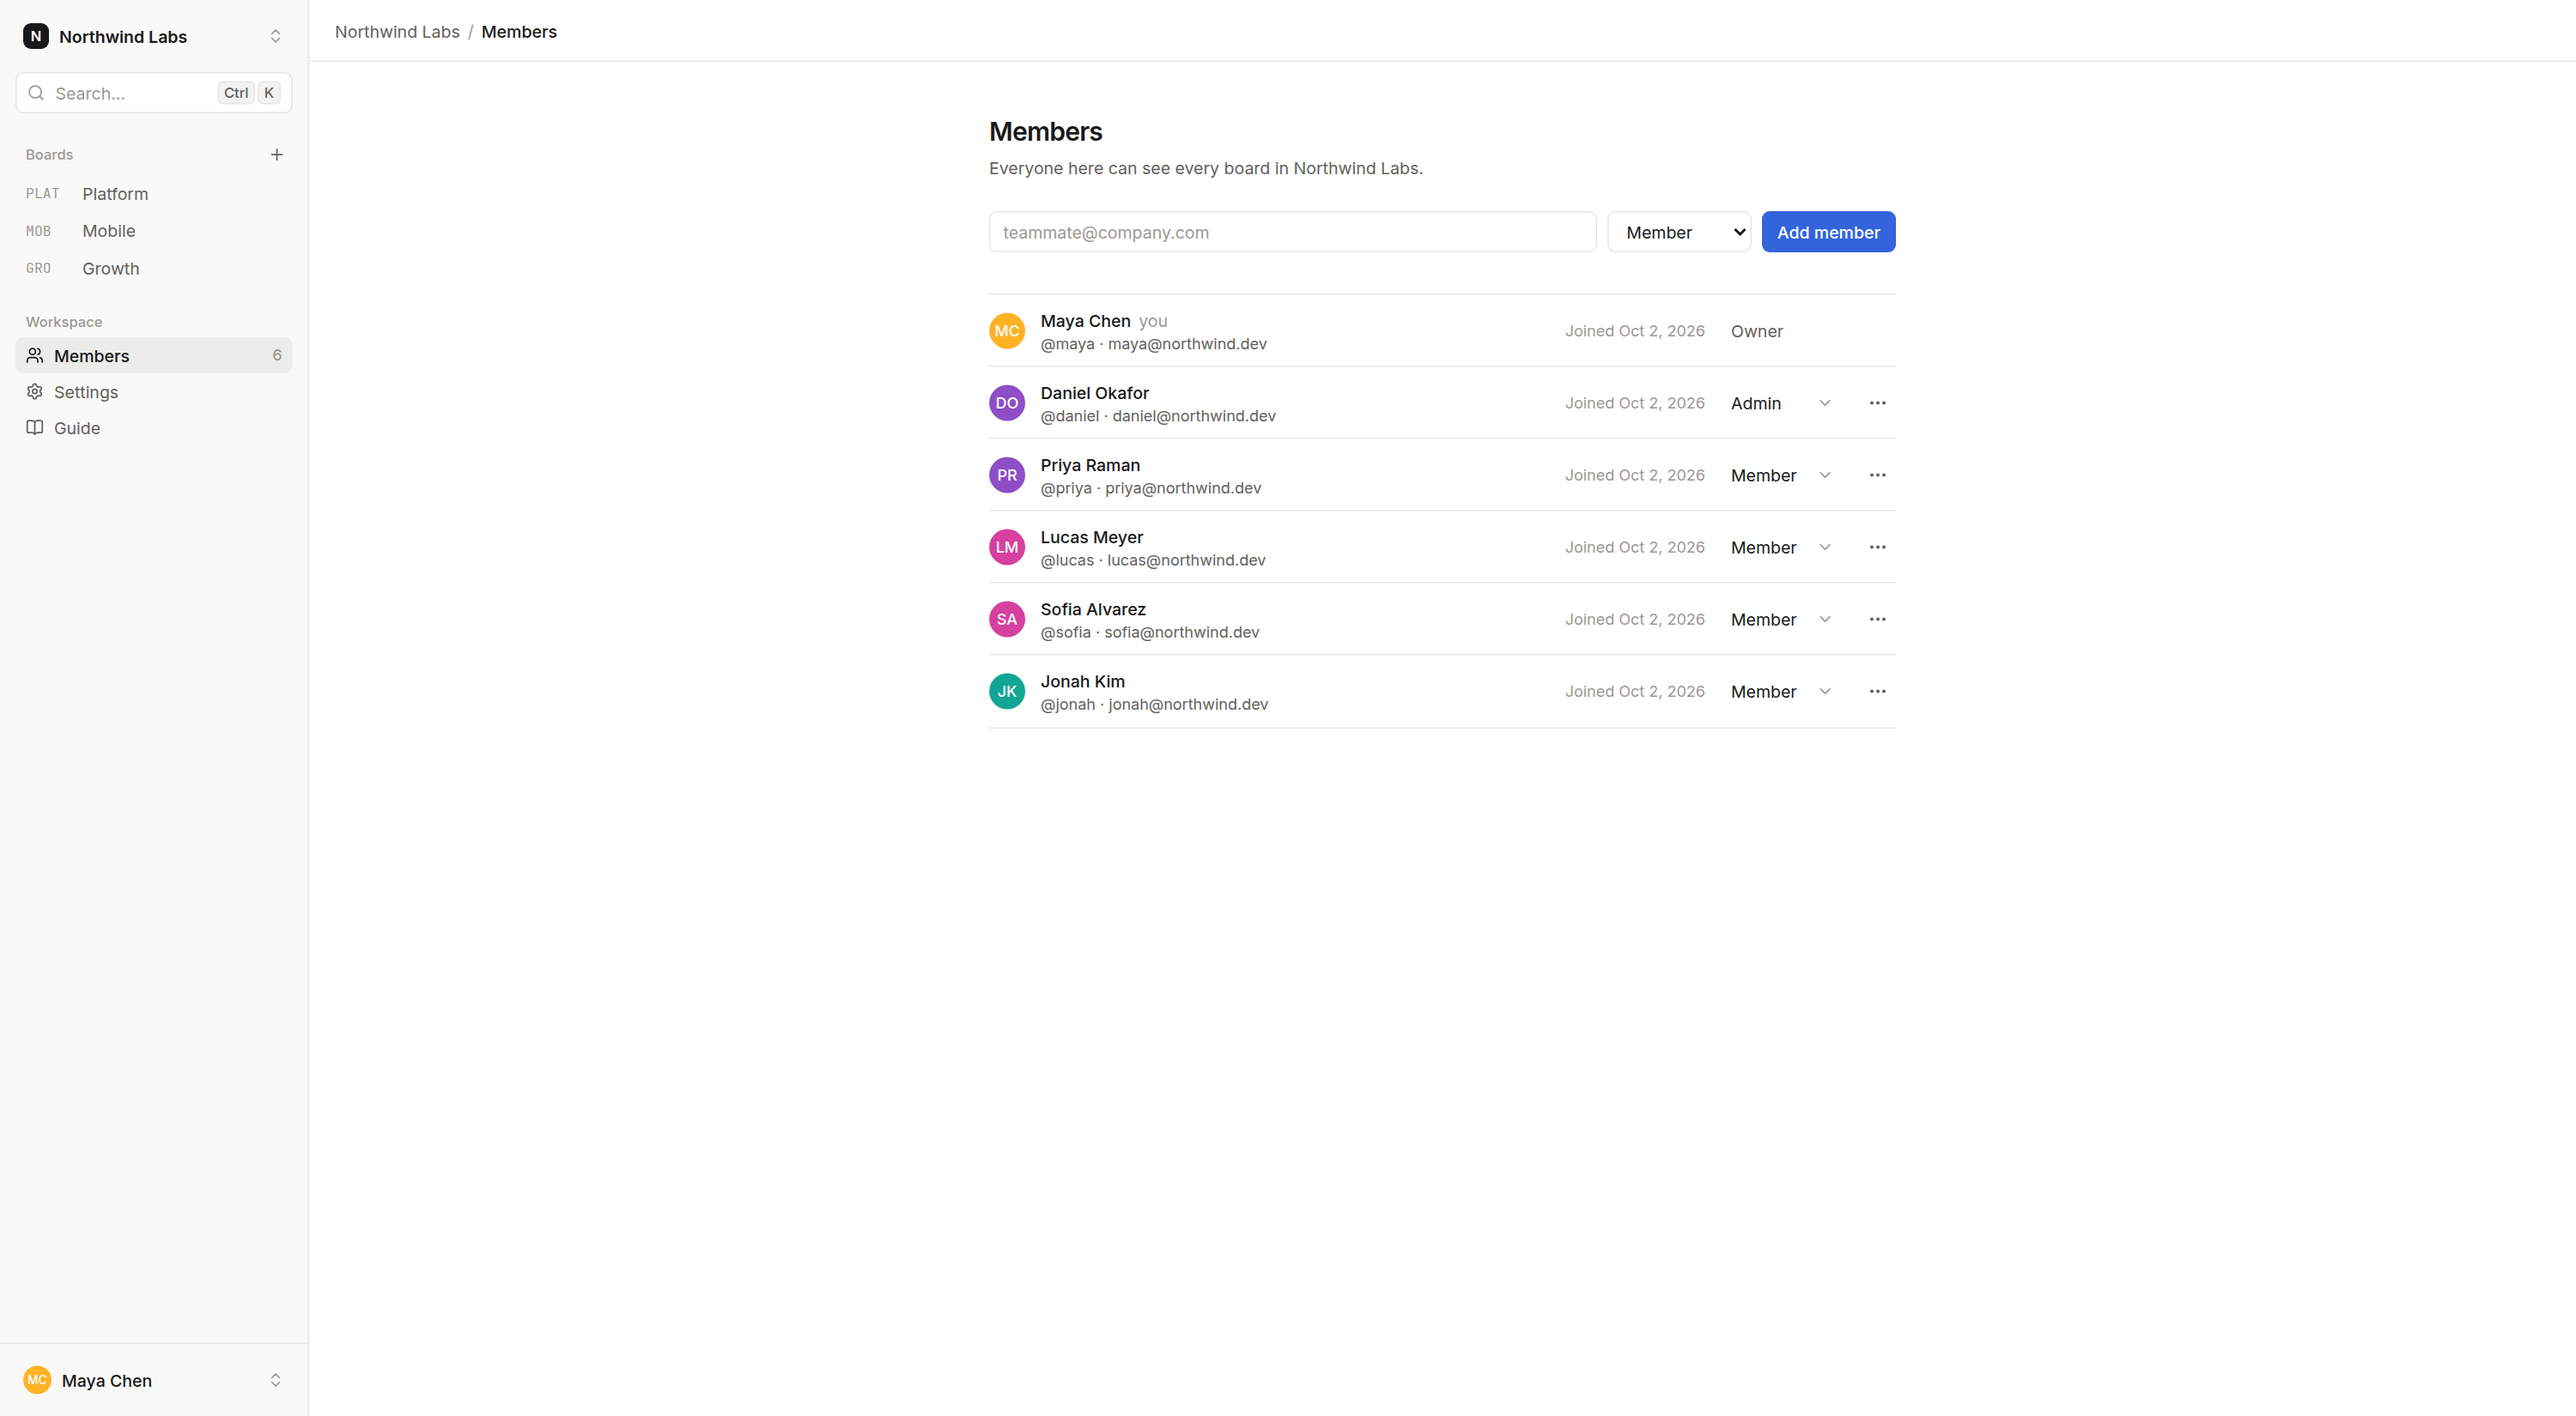
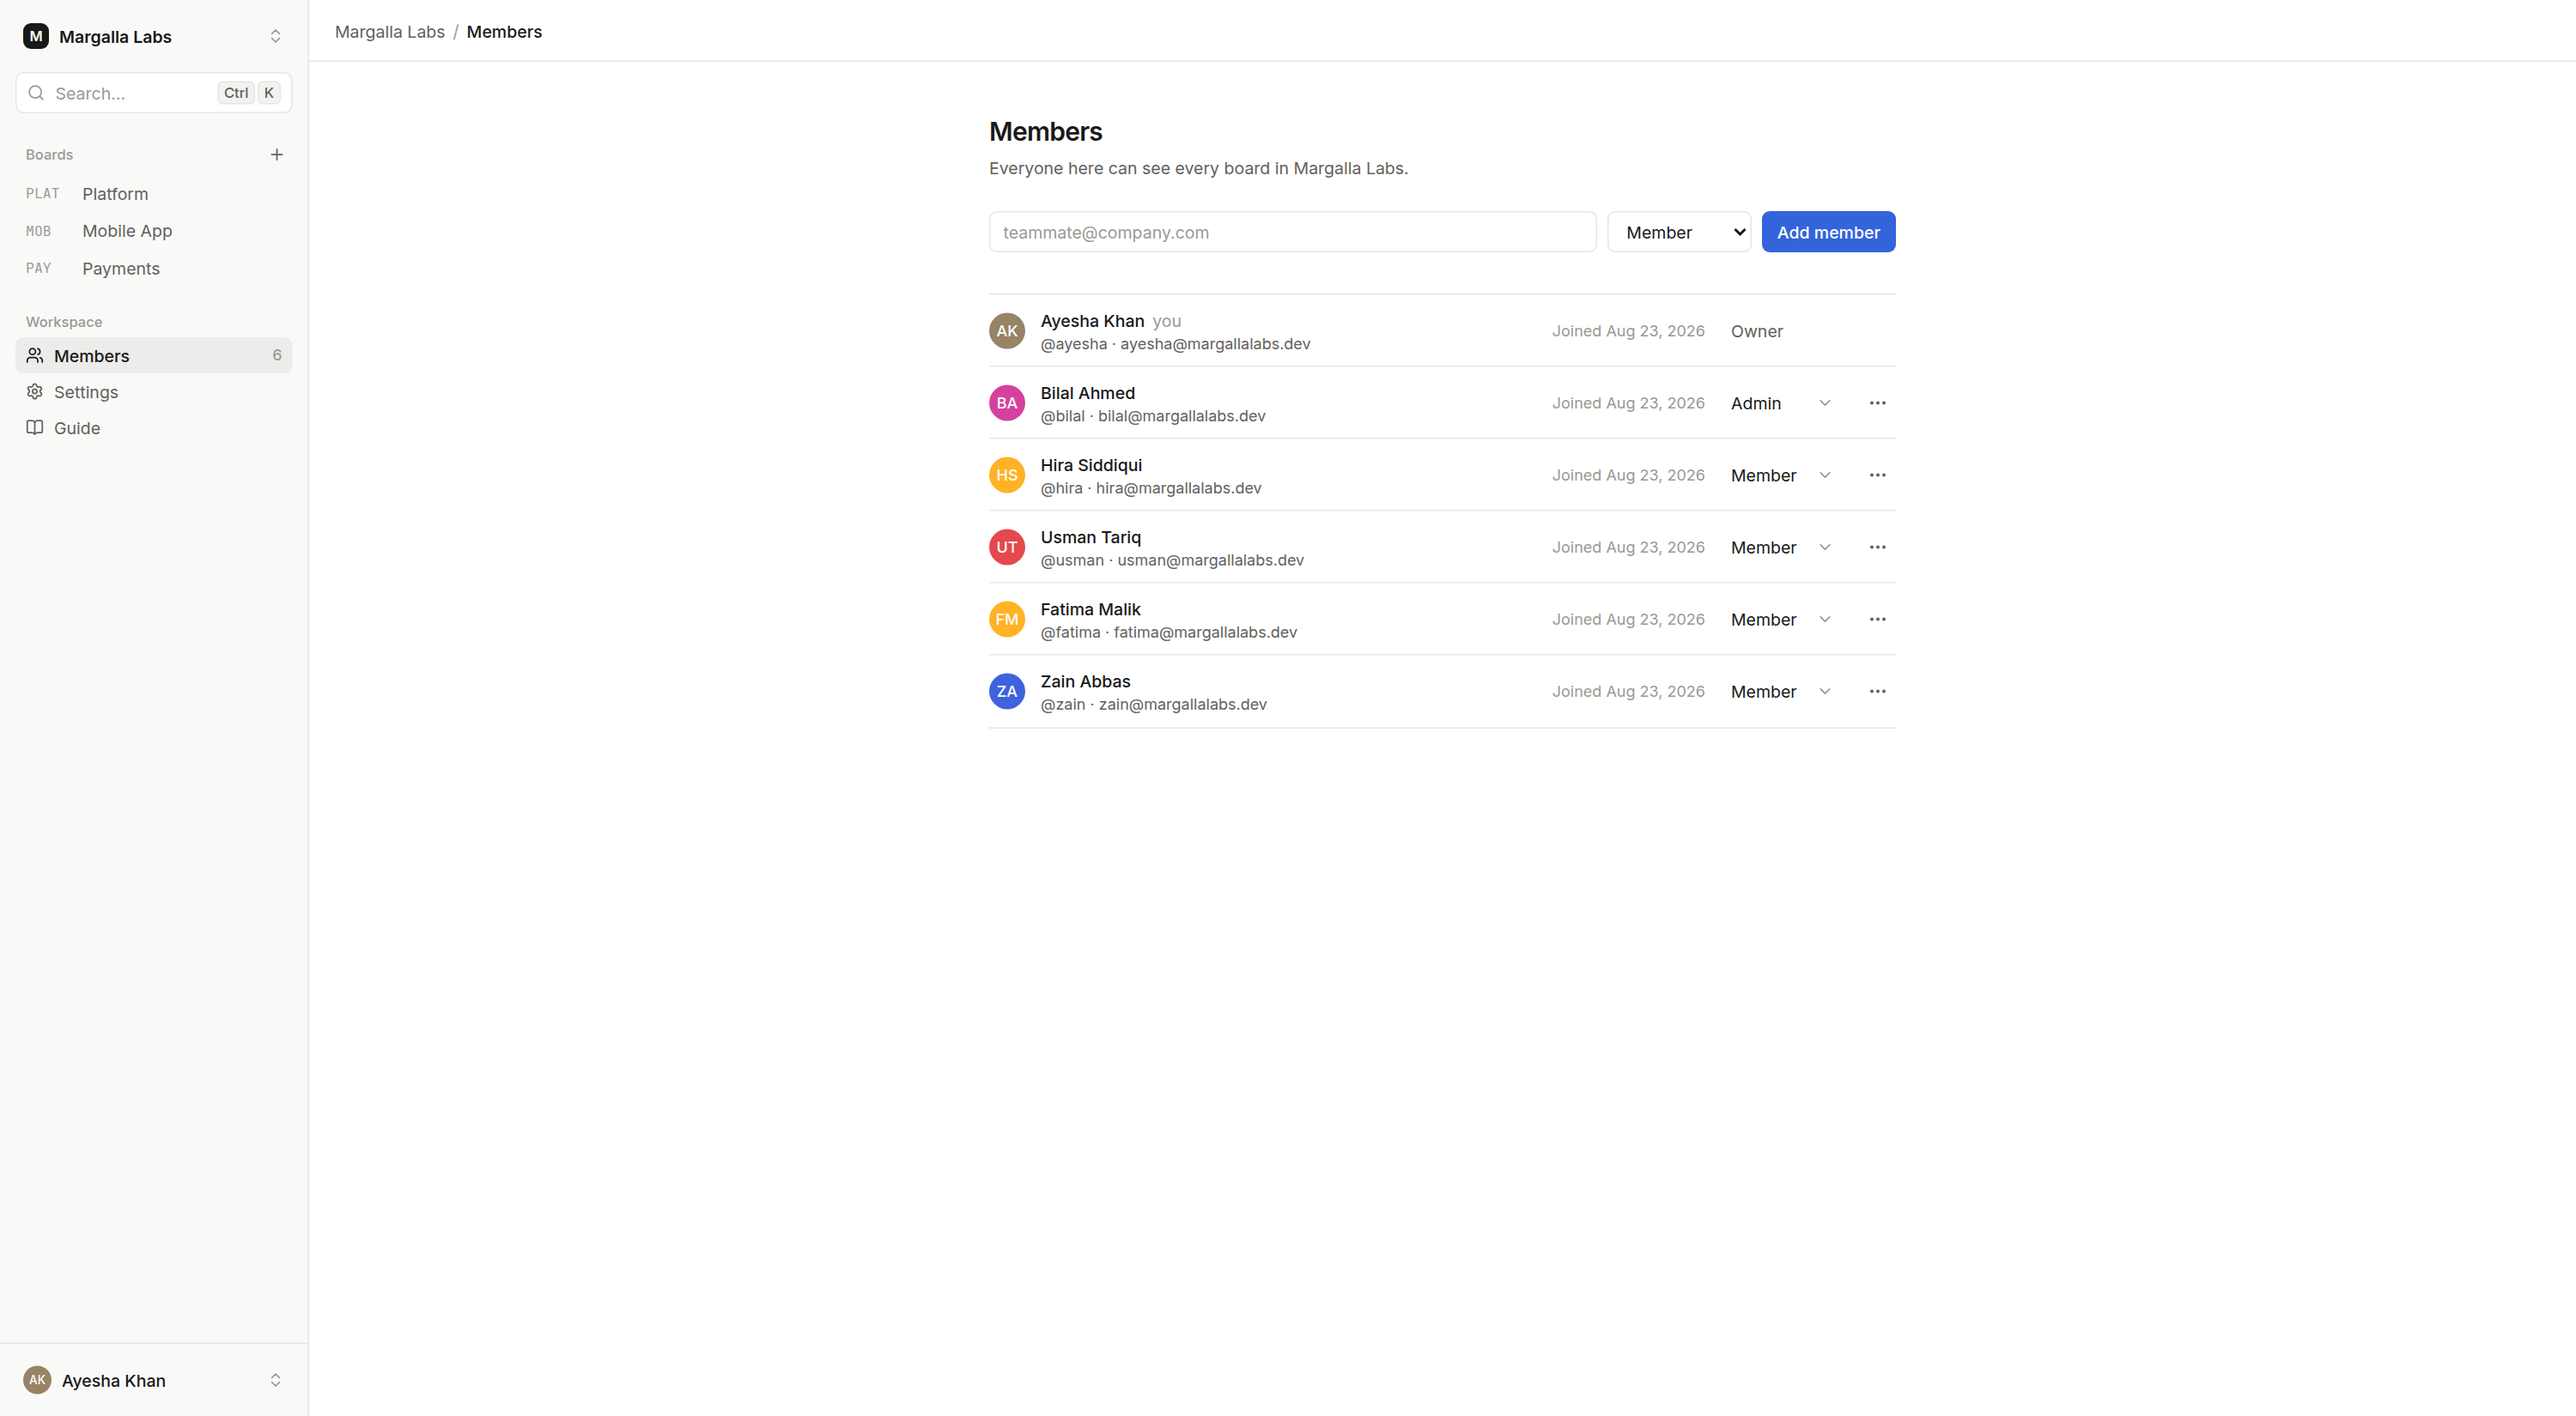
Update README and screenshots for the live demo

diff --git a/README.md b/README.md
@@ -16,6 +16,7 @@ summarizes discussion threads, writes sprint reports and suggests priority chang
 ## Contents
 
 - [Overview](#overview)
+- [Live demo](#live-demo)
 - [Screenshots](#screenshots)
 - [Highlights](#highlights)
 - [Tech stack](#tech-stack)
@@ -37,6 +38,34 @@ on the server, not just hidden in the UI.
 Frontend/   React 19 + Vite + Tailwind CSS 4, Radix UI primitives, TanStack Query
 Backend/    Node.js + Express 5, MongoDB (Mongoose), Socket.IO, Zod validation
 ```
+
+## Live demo
+
+The app ships with a guided demo that needs no sign-up. Visitors pick a role on `/demo`
+and land in **Margalla Labs**, a six-person product team in Islamabad with three boards
+(Platform, Mobile App, Payments), a few weeks of history and working AI features.
+
+<table>
+  <tr>
+    <td width="50%"><img src="./docs/screenshots/demo-page.png" alt="Demo page with owner, admin and member roles" /></td>
+    <td width="50%"><img src="./docs/screenshots/demo-checklist.png" alt="In-app demo banner with the guided checklist" /></td>
+  </tr>
+  <tr>
+    <td><b>Pick a role.</b> Owner, admin or member, each with what they can and can't do.</td>
+    <td><b>Guided tour.</b> A banner shows who you are, switches roles in one click and walks through seven things to try.</td>
+  </tr>
+</table>
+
+Demo mode is built so a public demo stays usable for the next visitor:
+
+- **Shared accounts, real permissions.** Demo users are normal accounts with a demo flag
+  carried in their access token. Role checks work exactly as they do for real users.
+- **Destructive actions are locked server-side.** Deleting or renaming workspaces and
+  boards, changing members, uploading files and deleting the seeded tasks return
+  `403 demo_locked`. Tasks and comments a visitor adds can still be edited and deleted.
+- **No email to demo accounts**, and a daily per-visitor cap on AI requests.
+- **Resetting is safe on a live server.** `npm run demo:reset` rebuilds only the demo
+  workspace and leaves real users alone. Set `DEMO_RESET_HOURS` to reset it on a timer.
 
 ## Screenshots
 
@@ -98,6 +127,8 @@ Backend/    Node.js + Express 5, MongoDB (Mongoose), Socket.IO, Zod validation
   notifications, mentions and due-date reminders.
 - **Documented REST API** (OpenAPI 3.1, served at `/docs`) alongside a Socket.IO event
   contract.
+- **Public demo mode** with one-click sign-in per role, a guided checklist and
+  server-side protection against visitors breaking it (see [Live demo](#live-demo)).
 - **Keyboard-first UX**: a command palette (`⌘K` / `Ctrl+K`), single-key shortcuts and
   full dark mode.
 
@@ -151,7 +182,8 @@ Backend/src/
   realtime/         Socket.IO server, rooms and presence
   services/         email, S3 storage, AI provider
   middleware/       auth, rate limiting
-  scripts/seed.js   demo workspace with a few weeks of history
+  features/demo/    demo accounts, sign-in, guards and seed data
+  scripts/          seed (local reset) and demo:reset (safe in production)
 
 Frontend/src/
   features/         one folder per area of the app (boards, tasks, ai, auth, ...)
@@ -169,7 +201,7 @@ string).
 cd Backend
 cp .env.example .env      # configure MONGO_URL and JWT_ACCESS_SECRET at minimum
 npm install
-npm run seed              # optional: seeds a demo workspace with sample data
+npm run seed              # optional: wipes the local DB and loads the demo workspace
 npm run dev               # http://localhost:4000, API docs at /docs
 
 # 2. Web app (separate terminal)
@@ -178,9 +210,12 @@ npm install
 npm run dev               # http://localhost:5173
 ```
 
-After seeding, sign in as `maya` (owner), `daniel` (admin) or `priya` (member). The
-password for every demo account is `pulseboard`. Open the same board in two browsers
-as different people to see live updates, presence and cursors.
+After seeding, open http://localhost:5173/demo and pick a role, or sign in as `ayesha`
+(owner), `bilal` (admin) or `hira` (member) with the password `pulseboard`. Open the same
+board in two browsers as different people to see live updates, presence and cursors.
+
+On a deployed server, use `npm run demo:reset` instead of `npm run seed`: it creates or
+rebuilds the demo without touching anyone else's data.
 
 Optional integrations are enabled independently via environment variables. See
 `Backend/.env.example` for the full list:
@@ -203,7 +238,8 @@ npm test
 
 Covers authentication flows, role-based access control enforced through the real HTTP
 API, workflow transition rules, sprint-velocity calculations, rate-limit accuracy and
-live Socket.IO events (presence, broadcasts, and removing people who lose access). The
+live Socket.IO events (presence, broadcasts, and removing people who lose access) and
+the demo mode guards. The
 API suites require a running MongoDB instance.
 
 ## API documentation
